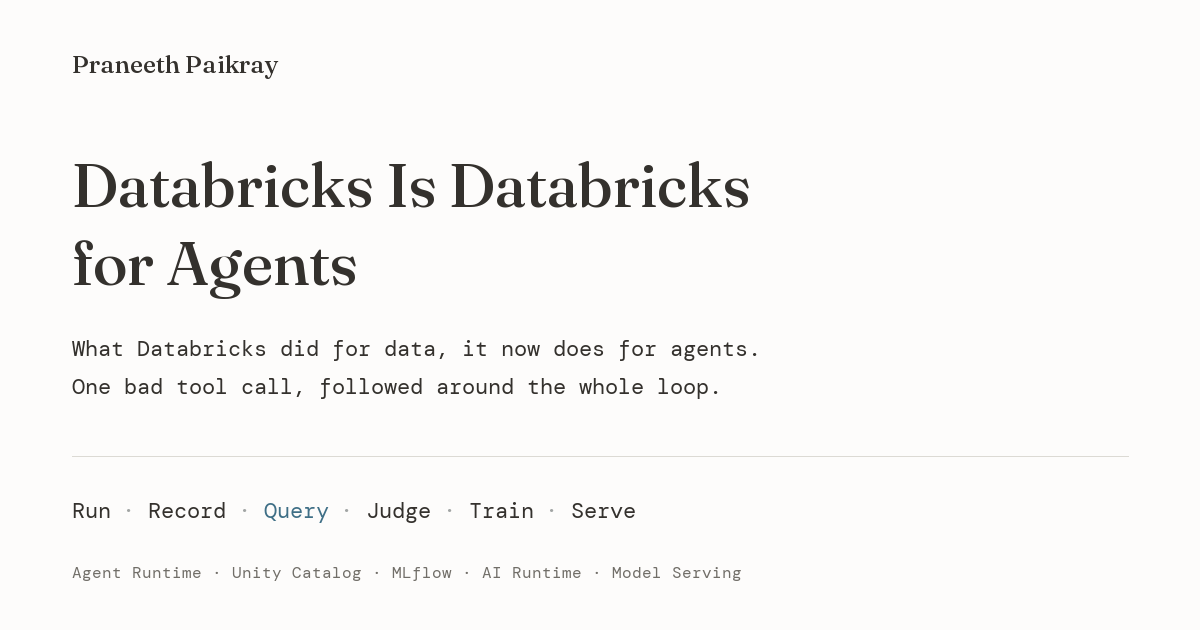
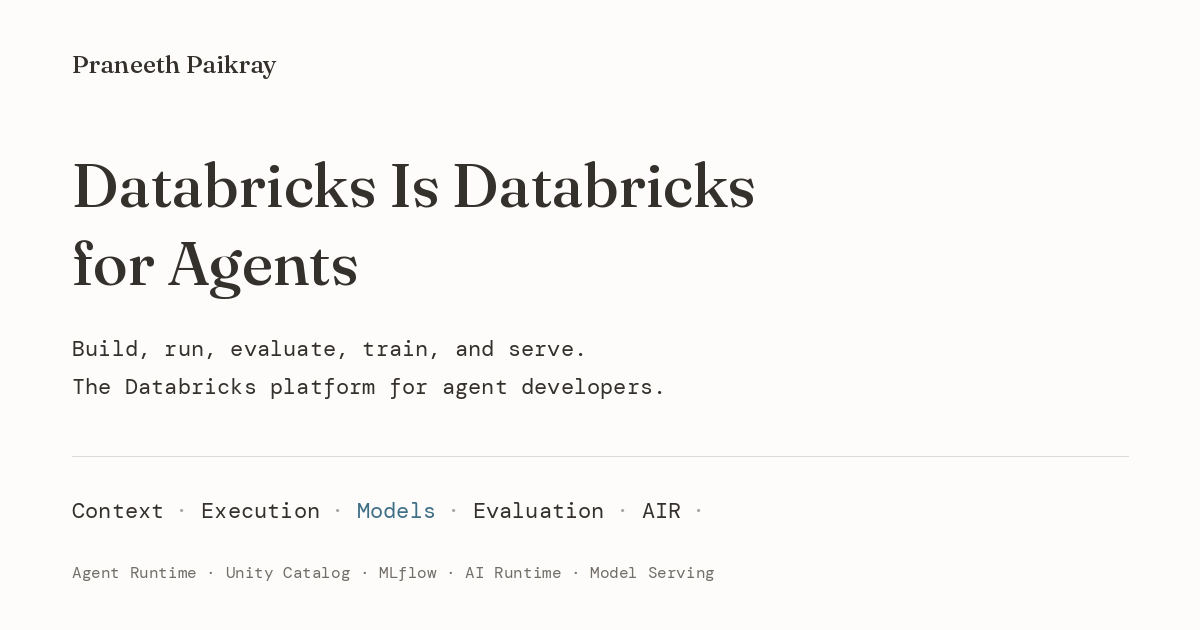
Center agents article on Databricks capabilities and open models
Lead with execution, context, governance, custom inference, and AIR/NVIDIA.
Add interactive hosted/custom/adapted build paths and documented model
recipes. Retain the trace query and drag interaction as supporting examples.

Validation: Astro check/build; capability/model schema and reference checks;
desktop and mobile interactions, synthetic grouping, and keyboard loop.

diff --git a/public/agents/platform-data.js b/public/agents/platform-data.js
@@ -3,7 +3,7 @@ export const stages = [
     verb: 'Run', glyph: 'req', shape: 'a request',
     product: 'AGENT RUNTIME · DATABRICKS APPS',
     title: 'The agent handles a request.',
-    body: 'Your harness runs inside the agent server on Databricks Apps. The app’s service principal is the agent’s identity. Model and MCP calls go through Unity Gateway, so the platform team sets limits and policies in one place.',
+    body: 'Your harness runs inside the agent server on Databricks Apps. The app’s service principal is the agent’s identity. Supported model and MCP calls can use Unity Gateway, where the platform team configures access and policies.',
     artifact: 'A reply to the customer, and a record of every model and tool call behind it.',
     code: 'agentbricks --profile <profile> deploy support-agent',
     href: 'https://docs.databricks.com/aws/en/agents/deploy/agent-runtime',
@@ -21,9 +21,9 @@ export const stages = [
     verb: 'Query', glyph: 'SQL', shape: 'rows',
     product: 'DATABRICKS SQL · AI FUNCTIONS · GENIE CODE',
     title: 'Ask questions of every trace at once.',
-    body: 'Group failures by harness version, join them to the orders table, and let an AI Function label the reason. This is the step a trace viewer can’t do, because the orders table and last week’s deploy log live somewhere else.',
+    body: 'Group failures by harness version, join them to the orders table, and let an AI Function label the reason. Databricks SQL can join the governed execution data to application metadata and other tables you have made available.',
     artifact: 'A table of failing traces with a reason column.',
-    code: "SELECT trace_id,\n  ai_classify(summary, ARRAY(\n    'wrong_item', 'missing_argument',\n    'policy_violation', 'other')) AS reason\nFROM support.trace_summary\nWHERE tool_status <> 'ok';",
+    code: "SELECT trace_id,\n  ai_classify(summary,\n    '[\"wrong_item\", \"missing_argument\", \"other\"]',\n    MAP('version', '2.1')) AS reason\nFROM support.trace_summary;",
     href: 'https://docs.databricks.com/aws/en/large-language-models/ai-functions',
   },
   {
@@ -39,7 +39,7 @@ export const stages = [
     verb: 'Train', glyph: 'GPU', shape: 'a checkpoint',
     product: 'AI RUNTIME · NVIDIA NEMO · TRL',
     title: 'Fine-tune an open model on your traces.',
-    body: 'Reviewed traces, kept apart from the test set, become a training table. AI Runtime fine-tunes an open model on it with serverless GPUs, reading straight from Unity Catalog. MLflow logs the run, so the model links back to the traces it learned from.',
+    body: 'Reviewed traces, kept apart from the test set, become a training table. AI Runtime fine-tunes an open model on it with serverless GPUs, reading straight from Unity Catalog. MLflow logs the run, and your logged dataset manifest records which traces the model learned from.',
     artifact: 'A checkpoint or LoRA adapter linked to an MLflow run.',
     code: 'databricks air run --file workload.yaml --watch',
     href: 'https://docs.databricks.com/aws/en/machine-learning/ai-runtime/overview',
@@ -50,7 +50,7 @@ export const stages = [
     title: 'Serve the new version and send it traffic.',
     body: 'Register the model in Unity Catalog and deploy it on a vLLM serving endpoint. The agent calls it on the next request, and the next trace records which version answered. Then the loop starts again.',
     artifact: 'An endpoint version that the next request calls.',
-    code: 'mlflow.register_model(\n    "runs:/<run_id>/model",\n    "support.models.retail_exchange_8b")',
+    code: 'mlflow.register_model(\n    model_info.model_uri,\n    "support.models.retail_exchange_8b",\n    env_pack="databricks_model_serving")',
     href: 'https://docs.databricks.com/aws/en/machine-learning/model-serving/serve-custom-llms',
   },
 ];
@@ -63,4 +63,24 @@ export const traceSpans = [
   {depth: 1, name: 'llm · pick items', detail: 'chose item 3 (black, size S)', ms: '1.1 s', bad: true},
   {depth: 1, name: 'tool · exchange_items', detail: "item_ids=['3'] new_item_ids=['3-M'] → ok", ms: '0.2 s', bad: true},
   {depth: 1, name: 'llm · reply', detail: '“Done! Your exchange is confirmed.”', ms: '1.1 s'},
+];
+
+export const capabilities = [
+ {id:'context',label:'Context',products:'AI Search · Genie One MCP · sessions · memory',job:'Retrieve documents, query structured data, and recall session or long-term context.',input:'Source tables, indexed documents, analytical questions, and stored memories.',output:'Passages, query results, and recalled context available to the harness.',href:'https://docs.databricks.com/aws/en/agents/mcp-tools/genie-mcp'},
+ {id:'execute',label:'Execution',products:'Agent Bricks · Agent Runtime · Sandbox',job:'Host your agent server and execute the code or tools the harness selects.',input:'Your framework, instructions, tools, and authenticated request.',output:'A running application with session state and model/tool interactions.',href:'https://docs.databricks.com/aws/en/agents/deploy/agent-runtime'},
+ {id:'model',label:'Inference',products:'Foundation Model APIs / custom vLLM endpoint',job:'Generate responses and tool calls through a hosted model or your own model service.',input:'Messages, tool schemas, generation settings, and a model target.',output:'A model response from the selected endpoint and model version.',href:'https://docs.databricks.com/aws/en/machine-learning/model-serving/serve-custom-llms'},
+ {id:'evaluate',label:'Evaluation',products:'MLflow · Databricks SQL · AI Functions',job:'Inspect traces, analyze collections of runs, curate examples, and compare versions.',input:'Executions, feedback, expected answers, and scorer definitions.',output:'Evaluation results and reviewed datasets for the next iteration.',href:'https://docs.databricks.com/aws/en/mlflow3/genai/agent-observability-and-quality'},
+ {id:'adapt',label:'GPU development',products:'AI Runtime · NVIDIA NeMo · MLflow',job:'Test a custom inference environment or train an open model on managed GPUs.',input:'Training data or model weights, a recipe, dependencies, and compute configuration.',output:'A tested environment, checkpoint, or adapter with its experiment record.',href:'https://docs.databricks.com/aws/en/machine-learning/ai-runtime/overview'},
+ {id:'govern',label:'Control',products:'Unity Catalog · Unity Gateway · app identity',job:'Manage access to data and supported AI services, and record their usage.',input:'Identities, grants, service policies, limits, and access configuration.',output:'Authorized access and usage records across the configured service paths.',href:'https://docs.databricks.com/aws/en/ai-gateway/'}
+];
+export const buildPaths = {
+ hosted:{label:'Use a hosted model',model:'Foundation Model APIs / supported provider via Unity Gateway',adapt:'No GPU training required for this path.',artifact:'An agent deployment plus its tools, model configuration, and MLflow experiment.',active:['context','execute','model','evaluate','govern']},
+ custom:{label:'Serve an open model',model:'Custom Model Serving / your vLLM environment',adapt:'Use AIR to test the GPU inference environment, then package it for serving.',artifact:'An agent deployment plus a separately deployed custom inference endpoint.',active:['context','execute','model','evaluate','adapt','govern']},
+ tuned:{label:'Adapt an open model',model:'Custom Model Serving / selected checkpoint or adapter',adapt:'Prepare data, train on AIR, compare in MLflow, then deploy the selected artifact.',artifact:'Training/evaluation manifests, MLflow run, registered artifact, endpoint, and agent release.',active:['context','execute','model','evaluate','adapt','govern']}
+};
+export const modelRoutes = [
+ {label:'Serve Qwen',title:'Qwen3.5-4B: the documented vLLM starter',method:'Online inference',compute:'AIR notebook: A10; AWS serving endpoint: A10G',software:'AI v6 or Standard v6; a tested vLLM command',output:'A custom GPU endpoint with an OpenAI-compatible interface.',body:'Start with the documented notebook. Load the weights, query vLLM on the notebook GPU, register the environment, and create the separate serving endpoint. This example establishes a deployment route, not tool-use accuracy.',code:'Model: Qwen3.5-4B\nDevelop: AIR notebook / A10\nRegister: Unity Catalog + packaged environment\nDeploy: Model Serving / A10G on AWS',href:'https://docs.databricks.com/aws/en/notebooks/source/machine-learning/custom-llm-serving/qwen3-5-4b.html'},
+ {label:'Fine-tune Qwen',title:'Qwen3.5-0.8B: supervised training through serving',method:'Full supervised fine-tuning',compute:'Training example: one H100',software:'TRL for training; vLLM for inference',output:'Fine-tuned weights and a separately deployed inference endpoint.',body:'The AIR examples include a notebook that fine-tunes this smaller Qwen checkpoint, compares responses, and serves it through vLLM. It is a concrete starting point for connecting the training and serving parts of the platform.',code:'Training data + base checkpoint\nAIR / TRL / one H100\nMLflow experiment + trained weights\nModel Serving / vLLM',href:'https://docs.databricks.com/aws/en/machine-learning/ai-runtime/examples/gpu-llms'},
+ {label:'NVIDIA route',title:'Nemotron: NeMo and NGC on AI Runtime',method:'Model customization using a selected cookbook',compute:'Multi-GPU configurations in the linked Nemotron cookbooks',software:'NVIDIA NeMo Automodel; NGC containers; Artifact Registry',output:'An adapted model artifact tracked with its training experiment.',body:'The NVIDIA integration provides Nemotron 3.5 Lightning and Super VL cookbooks. Bring the matching software environment to AIR and track the experiment in MLflow. Select and validate the inference configuration separately for the resulting checkpoint.',code:'NGC container → Artifact Registry\nNemotron + selected NeMo recipe → AIR\nTraining run → MLflow\nCheckpoint → validated inference deployment',href:'https://www.databricks.com/blog/databricks-ai-runtime-nvidia-train-fine-tune-models'},
+ {label:'Serve adapters',title:'One base model, several LoRA adapters',method:'Request-selected adapters in vLLM',compute:'One supported serving GPU; fit depends on the selected model and configuration',software:'Base weights + adapter folders + vLLM LoRA flags',output:'One endpoint that can select a packaged adapter per request.',body:'The custom-serving documentation includes a Qwen3.5-4B LoRA starter. The base weights are loaded once, and requests name the adapter to apply. Keep each adapter’s dataset, evaluation, and release version distinct.',code:'Base model\n  + adapter A\n  + adapter B\n  + tested vLLM LoRA configuration\n= one serving endpoint',href:'https://docs.databricks.com/aws/en/notebooks/source/machine-learning/custom-llm-serving/qwen3-5-4b-lora.html'}
 ];

diff --git a/src/styles/agents.css b/src/styles/agents.css
@@ -6,3 +6,6 @@
 @media(max-width:760px){.loop-layout{grid-template-columns:1fr}.loop-svg{max-width:420px;margin:auto}.loop-detail{border-left:0;border-top:1px solid var(--hair);padding:20px 16px}.table-split{grid-template-columns:1fr}.span-row{grid-template-columns:1fr 46px;padding-left:calc(10px + var(--depth)*12px)}.span-row code{grid-column:1/-1;grid-row:2}.eval-tray{margin-left:0;width:100%}.bar-row{grid-template-columns:minmax(0,2.5fr) minmax(0,.7fr) 42px 36px;gap:6px;padding:7px 4px;font-size:11px}}
 @media print{.loop-svg,.controls{display:none}.loop-layout{display:block}}
 .prose .handoff{list-style:none;counter-reset:step;padding:0;margin:8px 0 28px;border-top:1px solid var(--hair)}.handoff li{counter-increment:step;display:grid;grid-template-columns:34px minmax(0,1fr);gap:4px 14px;padding:18px 0;border-bottom:1px solid var(--hair)}.handoff li::before{content:counter(step,decimal-leading-zero);grid-row:span 3;font:11px/2.1 var(--mono);color:var(--accent)}.handoff b{font:500 19px/1.4 var(--display);letter-spacing:-.01em}.handoff span{font:16px/1.65 var(--serif);color:var(--ink-soft)}.handoff code{display:block;margin-top:8px;padding:11px 13px;font:11px/1.7 var(--mono);white-space:pre-wrap;overflow-wrap:anywhere;background:var(--panel-2)!important;border:1px solid var(--hair)!important;color:var(--ink-soft)}
+.path-tabs{display:flex;flex-wrap:wrap;gap:7px;margin-bottom:20px}.path-tabs button{font:11px/1.6 var(--mono);padding:8px 12px;border-color:var(--hair);background:transparent}.path-tabs button[aria-pressed=true]{border-color:var(--accent);background:var(--wash);color:var(--accent)}.capability-layout{display:grid;grid-template-columns:minmax(0,1.1fr) minmax(0,1fr);border:1px solid var(--hair)}.capability-rows{border-right:1px solid var(--hair)}.capability-row{display:grid;grid-template-columns:112px minmax(0,1fr) 52px;gap:12px;align-items:baseline;width:100%;text-align:left;border:0;border-bottom:1px solid var(--hair);border-radius:0;padding:15px 14px;background:transparent;min-height:66px}.capability-row:last-child{border-bottom:0}.capability-row>span{font:11px/1.6 var(--mono);color:var(--muted)}.capability-row strong{font:16px/1.5 var(--serif);font-weight:500}.capability-row small{font:9px/1.6 var(--mono);color:var(--muted);text-align:right}.capability-row[aria-pressed=true]{background:var(--wash);box-shadow:inset 3px 0 var(--accent)}.capability-row.outside-path strong{color:var(--muted)}.capability-row.outside-path small{color:var(--muted)}.capability-detail{padding:23px}.capability-detail h4,.model-route h4{font:500 23px/1.4 var(--display);letter-spacing:-.015em;margin:11px 0 21px}.capability-detail dl,.model-spec{margin:0 0 24px;font:14px/1.7 var(--serif)}.capability-detail dt,.model-spec dt{font:10px/1.6 var(--mono);color:var(--muted);margin:16px 0 7px}.capability-detail dd,.model-spec dd{margin:0;font:15px/1.7 var(--serif);color:var(--ink-soft)}.path-result{margin-top:18px;padding:16px 18px;border-left:2px solid var(--accent);background:var(--panel-2)}.path-result p{font:14px/1.7 var(--serif);margin:9px 0 0!important}.path-result p:last-child{color:var(--ink-soft);font-size:13px}.model-route{display:grid;grid-template-columns:minmax(0,1fr) minmax(0,1fr);gap:30px}.model-route .widget-text{margin:0 0 22px!important;font-size:16px}.model-spec{padding:0 0 20px;margin:0}.model-spec dt:first-child{margin-top:0}.model-route pre{font:11px/1.8 var(--mono);padding:15px;background:var(--panel-2);border:1px solid var(--hair);white-space:pre-wrap;overflow-wrap:anywhere;color:var(--ink-soft)}.model-route a{display:inline-block;margin:0 0 16px}.runtime-comparison{display:grid;grid-template-columns:repeat(3,minmax(0,1fr));margin:10px 0 24px;border:1px solid var(--hair);background:var(--panel)}.runtime-comparison>div{padding:18px 16px;border-right:1px solid var(--hair)}.runtime-comparison>div:last-child{border-right:0}.runtime-comparison span{font:8px/1.6 var(--mono);color:var(--muted)}.runtime-comparison strong{display:block;font:500 21px/1.4 var(--display);margin:10px 0}.runtime-comparison p{font:14px/1.7 var(--serif);color:var(--ink-soft);margin:0!important}
+@media(max-width:760px){.capability-layout,.model-route{grid-template-columns:1fr}.capability-rows{border-right:0;border-bottom:1px solid var(--hair)}.capability-row{grid-template-columns:100px minmax(0,1fr) 44px;gap:9px}.capability-detail{min-height:315px;padding:20px}.model-route{gap:10px}.path-tabs button{font-size:10px;padding:8px 9px}.runtime-comparison{grid-template-columns:1fr}.runtime-comparison>div{border-right:0;border-bottom:1px solid var(--hair)}.runtime-comparison>div:last-child{border-bottom:0}.capability-row strong{font-size:15px}.capability-row{padding:13px 11px}.capability-row>span{font-size:10px}.capability-row small{font-size:8px}}@media(max-width:420px){.capability-row{grid-template-columns:85px minmax(0,1fr) 39px}.capability-row strong{font-size:14px}}
+.prose.fit .interactive[data-widget=stack],.prose.fit .interactive[data-widget=models]{grid-column:full;width:min(960px,100% - 40px);justify-self:center;max-width:960px}.capability-detail .widget-text{margin:0 0 20px!important;font-size:16px;line-height:1.75}@media(min-width:761px){.capability-detail{position:sticky;top:80px;align-self:start}}@media(max-width:760px){.prose.fit .interactive[data-widget=stack],.prose.fit .interactive[data-widget=models]{width:calc(100% - 20px)}}

diff --git a/public/agents/explorers.js b/public/agents/explorers.js
@@ -1,5 +1,5 @@
 /* Explanatory widgets. The trace data is synthetic and generated in the browser; nothing here calls a workspace. */
-import {stages,traceSpans} from './platform-data.js';
+import {stages,traceSpans,capabilities,buildPaths,modelRoutes} from './platform-data.js?v=capabilities-20261101';
 const $=(root,s)=>root.querySelector(s);
 const $$=(root,s)=>Array.from(root.querySelectorAll(s));
 const esc=s=>String(s??'').replace(/[&<>"']/g,c=>({'&':'&amp;','<':'&lt;','>':'&gt;','"':'&quot;',"'":'&#39;'}[c]));
@@ -79,8 +79,28 @@ function traceTable(host){
  renderTray();render();
 }
 
+
+function stack(host){
+ let path='hosted',selected='context';
+ host.innerHTML=header('Choose how to build the agent','Architecture explorer · documented capabilities, not a live workspace')+`<div class="widget-body"><div class="path-tabs" role="group" aria-label="Agent build path">${Object.entries(buildPaths).map(([k,p])=>`<button type="button" data-path="${k}" aria-pressed="${k===path}">${esc(p.label)}</button>`).join('')}</div><div class="capability-layout"><div class="capability-rows" role="group" aria-label="Databricks capabilities">${capabilities.map(c=>`<button type="button" class="capability-row" data-cap="${c.id}" aria-pressed="${c.id===selected}"><span>${esc(c.label)}</span><strong>${esc(c.products)}</strong><small data-state></small></button>`).join('')}</div><div class="capability-detail" aria-live="polite"><p class="micro" data-product></p><h4 data-title></h4><p class="widget-text" data-job></p><dl><dt>Input</dt><dd data-input></dd><dt>Output</dt><dd data-output></dd></dl><a class="micro" data-doc href="#">Documentation ↗</a></div></div><div class="path-result" aria-live="polite"><span class="micro">THIS BUILD PATH</span><p data-description></p><p data-artifact></p></div></div>`;
+ function render(){const p=buildPaths[path],c=capabilities.find(x=>x.id===selected);
+  $$(host,'[data-path]').forEach(b=>b.setAttribute('aria-pressed',String(b.dataset.path===path)));
+  $$(host,'[data-cap]').forEach(b=>{b.setAttribute('aria-pressed',String(b.dataset.cap===selected));const active=p.active.includes(b.dataset.cap);b.classList.toggle('outside-path',!active);$(b,'[data-state]').textContent=active?'used':'optional';});
+  $(host,'[data-product]').textContent=c.id==='model'?p.model:c.products;
+  $(host,'[data-title]').textContent=c.label;$(host,'[data-job]').textContent=c.job;
+  $(host,'[data-input]').textContent=c.input;$(host,'[data-output]').textContent=c.output;$(host,'[data-doc]').href=c.href;
+  $(host,'[data-description]').textContent=p.adapt;$(host,'[data-artifact]').textContent='Release artifacts: '+p.artifact;
+ }
+ $$(host,'[data-path]').forEach(b=>b.onclick=()=>{path=b.dataset.path;render()});$$(host,'[data-cap]').forEach(b=>b.onclick=()=>{selected=b.dataset.cap;render();if(matchMedia('(max-width:760px)').matches)$(host,'.capability-detail').scrollIntoView({block:'nearest',behavior:matchMedia('(prefers-reduced-motion: reduce)').matches?'instant':'smooth'})});render();
+}
+function models(host){
+ host.innerHTML=header('Documented open-model paths','Select an example; compute and software describe its linked recipe')+`<div class="widget-body"><div class="path-tabs" role="group" aria-label="Open-model route">${modelRoutes.map((r,i)=>`<button type="button" data-model-route="${i}" aria-pressed="${i===0}">${esc(r.label)}</button>`).join('')}</div><div class="model-route"><div aria-live="polite"><p class="micro" data-method></p><h4 data-title></h4><p class="widget-text" data-body></p><a class="micro" data-link href="#">Open the documented example ↗</a></div><div><dl class="model-spec"><dt>Compute</dt><dd data-compute></dd><dt>Software</dt><dd data-software></dd><dt>Output</dt><dd data-output></dd></dl><pre data-code></pre></div></div></div>`+note('These are documented implementation routes, not measurements from this article. Custom vLLM serving is Public Preview. Follow the selected example’s current hardware, version, and region requirements.');
+ function render(i){const r=modelRoutes[i];for(const k of ['method','title','body','compute','software','output','code'])$(host,`[data-${k}]`).textContent=r[k];$(host,'[data-link]').href=r.href;$$(host,'[data-model-route]').forEach(b=>b.setAttribute('aria-pressed',String(Number(b.dataset.modelRoute)===i)));}
+ $$(host,'[data-model-route]').forEach(b=>b.onclick=()=>render(Number(b.dataset.modelRoute)));render(0);
+}
+
 if(typeof document!=='undefined'){
- const mounts={loop,traceTable};
+ const mounts={loop,traceTable,stack,models};
  for(const el of document.querySelectorAll('[data-widget]'))mounts[el.dataset.widget]?.(el);
  const article=document.getElementById('agent-article'),progress=document.getElementById('reading-progress');
  const update=()=>{if(!article||!progress)return;const range=article.offsetHeight-innerHeight;progress.style.width=`${Math.max(0,Math.min(100,(scrollY-article.offsetTop)/Math.max(range,1)*100))}%`};

diff --git a/src/pages/rss.xml.js b/src/pages/rss.xml.js
@@ -1,4 +1,4 @@
 import metadata from '../generated/article-meta.json';
 import systemOne from '../generated/system-one/article-meta.json';
 import rss from '@astrojs/rss';
-export async function GET(context){return rss({title:'Praneeth Paikray',description:'Experiments and explanations on building AI systems.',site:context.site,items:[{title:'Databricks Is Databricks for Agents',description:'What Databricks did for data, it now does for agents. One bad tool call, followed from trace to SQL row to test case to fine-tuned model.',pubDate:new Date('2026-10-31T00:00:00Z'),link:'/blog/databricks-for-agents/',categories:['Databricks','Agents','MLflow','AI Runtime']},{title:'Reading Tastes, Ranking Titles',description:'An interactive guide to Netflix GenRec and the evolution of language-based recommendation.',pubDate:new Date('2026-10-02T00:00:00Z'),link:'/blog/genrec/',categories:['Recommendation','LLMs','GenRec']},{title:'WTF Is a System One Model?',description:systemOne.subtitle,pubDate:new Date('2026-09-26T00:00:00Z'),link:'/blog/wtf-is-a-system-one-model/',categories:['Jev','Routing','Evaluation']},{title:'Adapting Jev to Your Domain with GEPA',description:metadata.subtitle,pubDate:new Date('2026-09-20T00:00:00Z'),link:'/blog/adapting-jev-with-gepa/',categories:['Jev','GEPA','Evaluation']} ]});}
+export async function GET(context){return rss({title:'Praneeth Paikray',description:'Experiments and explanations on building AI systems.',site:context.site,items:[{title:'Databricks Is Databricks for Agents',description:'The Databricks agent platform: execution, context, governance, MLflow, AIR with NVIDIA, and open-model serving.',pubDate:new Date('2026-10-31T00:00:00Z'),link:'/blog/databricks-for-agents/',categories:['Databricks','Agents','MLflow','AI Runtime']},{title:'Reading Tastes, Ranking Titles',description:'An interactive guide to Netflix GenRec and the evolution of language-based recommendation.',pubDate:new Date('2026-10-02T00:00:00Z'),link:'/blog/genrec/',categories:['Recommendation','LLMs','GenRec']},{title:'WTF Is a System One Model?',description:systemOne.subtitle,pubDate:new Date('2026-09-26T00:00:00Z'),link:'/blog/wtf-is-a-system-one-model/',categories:['Jev','Routing','Evaluation']},{title:'Adapting Jev to Your Domain with GEPA',description:metadata.subtitle,pubDate:new Date('2026-09-20T00:00:00Z'),link:'/blog/adapting-jev-with-gepa/',categories:['Jev','GEPA','Evaluation']} ]});}

diff --git a/scripts/draw_agents_share_card.py b/scripts/draw_agents_share_card.py
@@ -10,11 +10,11 @@ def text(x,y,s,size=22,font='dmmono-400.ttf',fill='#34312d'):
 text(72,48,'Praneeth Paikray',25,'fraunces-variable.ttf')
 text(72,146,'Databricks Is Databricks',62,'fraunces-variable.ttf')
 text(72,224,'for Agents',62,'fraunces-variable.ttf')
-text(72,334,'What Databricks did for data, it now does for agents.',22)
-text(72,372,'One bad tool call, followed around the whole loop.',22)
+text(72,334,'Build, run, evaluate, train, and serve.',22)
+text(72,372,'The Databricks platform for agent developers.',22)
 d.line((72,456,1128,456),fill='#dcdad4',width=1)
 x=72
-for i,s in enumerate(['Run','Record','Query','Judge','Train','Serve']):
+for i,s in enumerate(['Context','Execution','Models','Evaluation','AIR']):
  text(x,496,s,22,fill='#3f6f86' if i==2 else '#34312d');x+=len(s)*13.3+22
  if i<5:text(x-12,496,'·',22,fill='#a2a5a4');x+=14
 text(72,562,'Agent Runtime · Unity Catalog · MLflow · AI Runtime · Model Serving',16,fill='#716e68')
